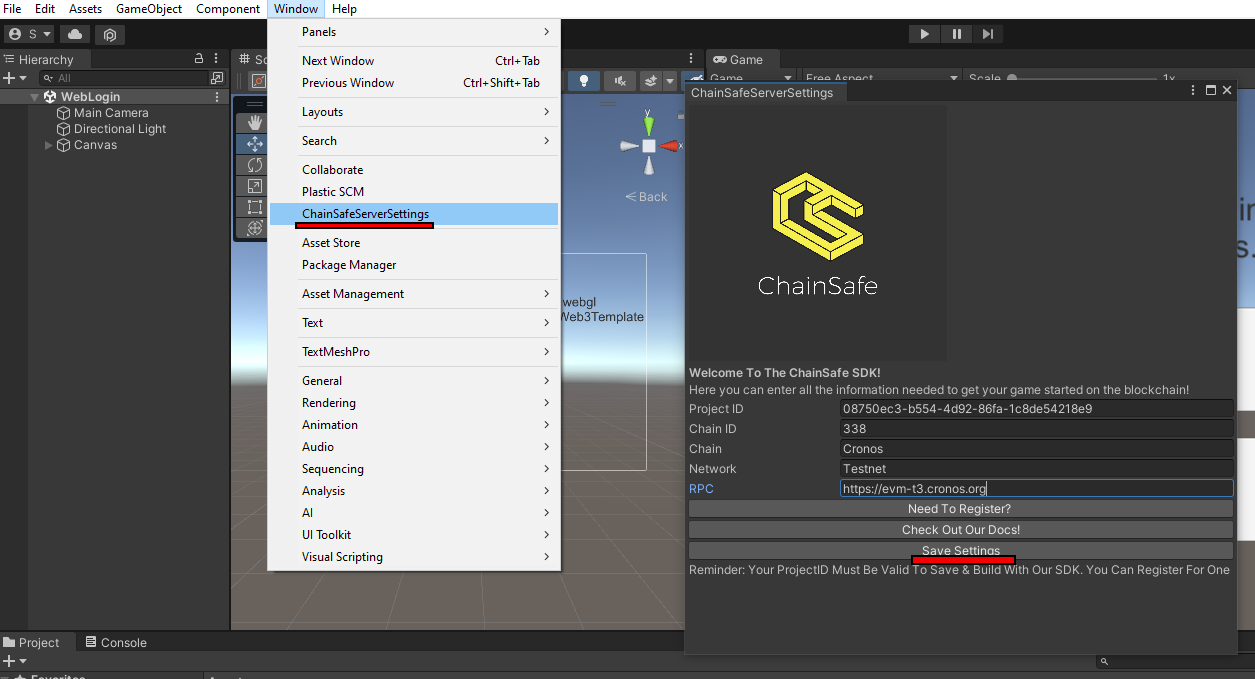
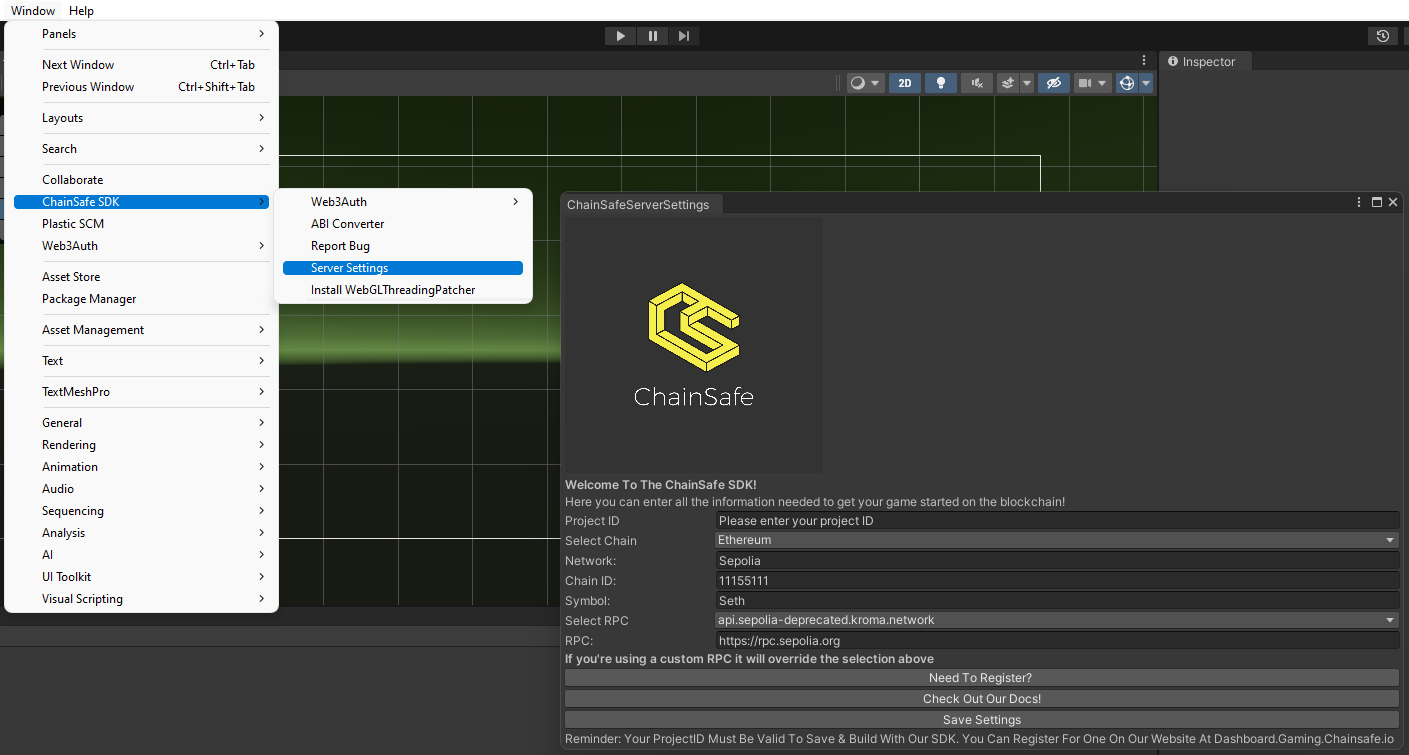
Updated navigation to chainsafe server settings
I updated the navigation to the server settings and the image showing where to find the settings.

diff --git a/docs/v2.5/3_project-id-registration.md b/docs/v2.5/3_project-id-registration.md
@@ -64,7 +64,7 @@ Upon installing the newest release, you'll be presented with a debug error that 
 
 ### Saving Your Project ID Within Unity
 
-In the menu bar near the top, you can press `Window` -> `ChainSafe Server Settings`, which will prompt a pop-up. From here, you can enter your Project ID along with chain information associated with your game. Once complete, press save, and that's it! You're ready to start building with web3.unity!
+In the menu bar near the top, you can press `Window` -> `ChainSafe SDK` -> `Server Settings`, which will prompt a pop-up. From here, you can enter your Project ID along with chain information associated with your game. Once complete, press save, and that's it! You're ready to start building with web3.unity!
 
 ![](v2Assets/savesettings.png)
 
